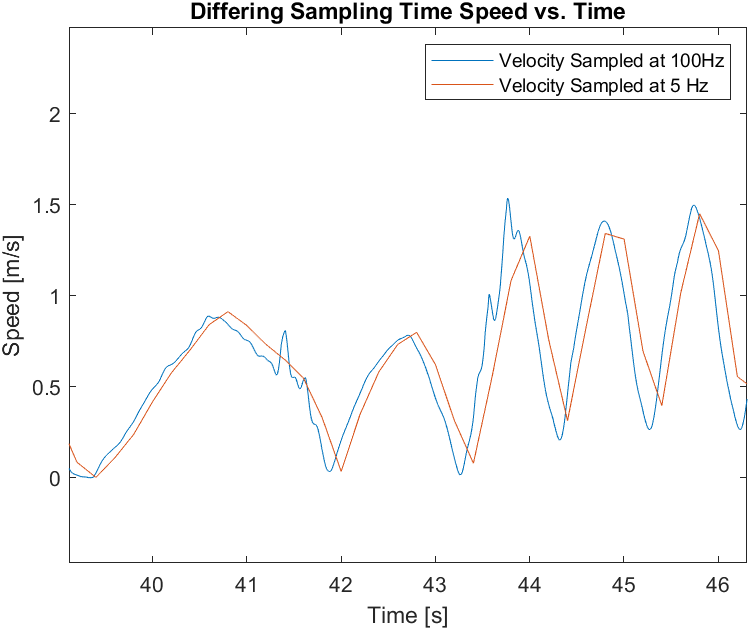
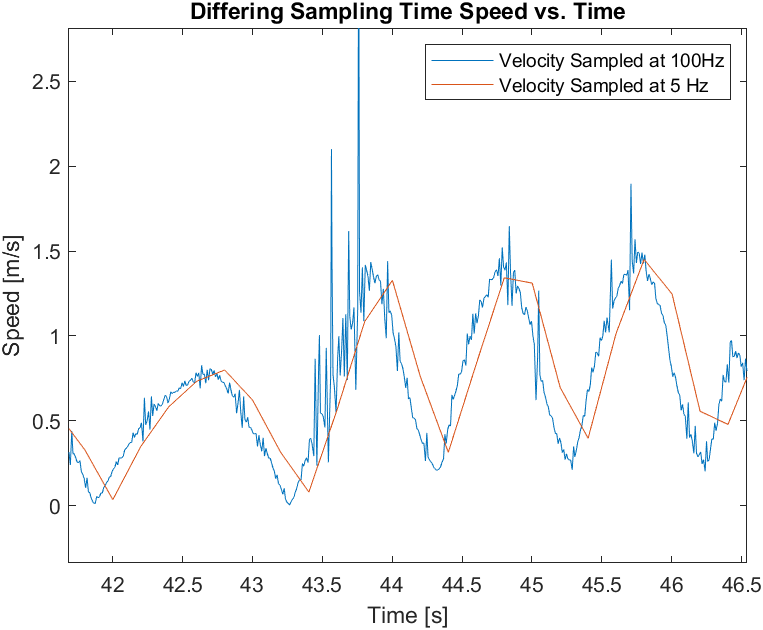
added figs

diff --git a/readData.m b/readData.m
@@ -122,10 +122,10 @@ title("Throttle Command and Sampled State vs. Time")
 figure(2)
 
 yyaxis left
-plot(speed_time_samp,speed_samp)
+plot(speed_time_samp,abs(speed_samp))
 yline(.7)
 ylabel('5Hz Sampled Speed State [m/s]');
-ylim([0 5])
+ylim([0 2.5])
 
 yyaxis right
 plot(crit_time,critic_value,"--")
@@ -136,7 +136,8 @@ title("Critic Model Value Output at 5Hz Sampled State")
 
 
 figure(3)
-plot(speed_time,lowpass(speed,5,100))
+%plot(speed_time,lowpass(speed,5,100))
+plot(speed_time,speed)
 hold on
 plot(speed_time_samp,speed_samp)
 title("Differing Sampling Time Speed vs. Time")
